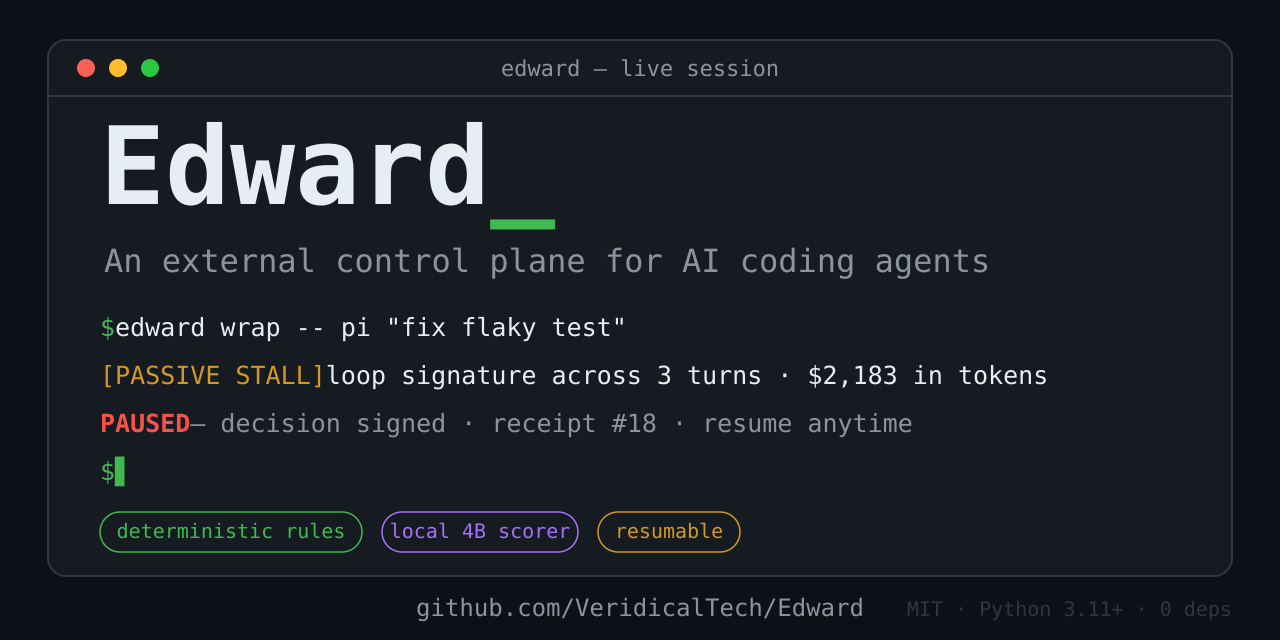
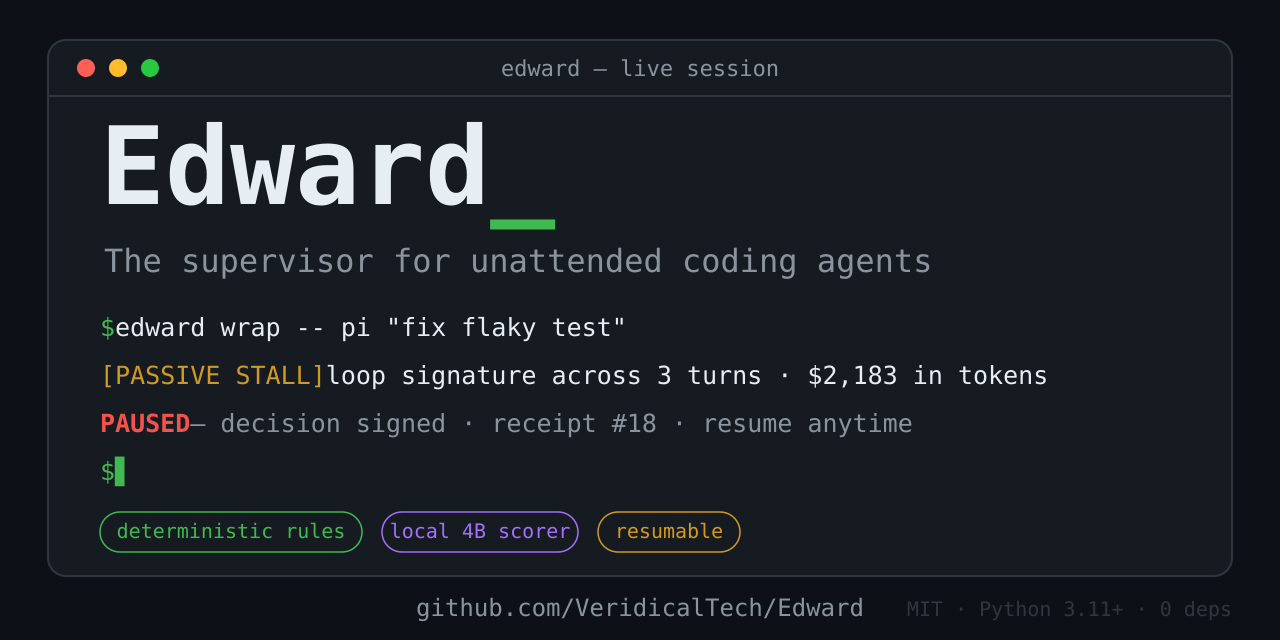
positioning: beachhead at unattended runs — scenario-first hero ('the supervisor for agents that run when nobody's watching'), GitHub Action (composite, receipt verification in-pipeline), social card tagline synced

Changed region(s): [[0.0625, 0.375, 0.7812, 0.4375]]

diff --git a/README.md b/README.md
@@ -2,7 +2,9 @@
 
 # Edward
 
-**An external control plane for AI coding agents — deterministic guardrails, a local semantic scorer, and interventions you can resume.**
+**The supervisor for coding agents that run when nobody's watching.**
+
+CI jobs, overnight runs, scheduled batches — unattended agents fail quietly: the same broken test retried 40 times, `rm -rf` on the wrong directory, budget burned at 3am with no one to hit stop. Edward watches the event stream, builds a picture of what the agent is actually doing across turns, and intervenes when the picture stops looking right — **PAUSE (resumable), CANCEL, or BLOCK — with a signed receipt for every decision.**
 
 [![CI](https://img.shields.io/github/actions/workflow/status/VeridicalTech/Edward/ci.yml?branch=main&label=CI&style=flat-square&logo=github)](https://github.com/VeridicalTech/Edward/actions/workflows/ci.yml)
 [![PyPI](https://img.shields.io/pypi/v/edward-guard?style=flat-square&color=blue)](https://pypi.org/project/edward-guard/)
@@ -166,6 +168,25 @@ measured numbers and reproduction commands).
 <div align="center">
 <img src="docs/gif/resume_verify.gif" alt="resume from audit + offline receipt verification" width="780">
 </div>
+
+## Unattended runs & CI
+
+Edward is built for agents nobody is watching. In a workflow:
+
+```yaml
+- uses: VeridicalTech/Edward@main
+  with:
+    command: 'pi "fix the flaky test"'
+    policy: balanced          # or a path to your policy TOML
+    max-seconds: 1800
+    # scorer-url: http://gpu-box.lan:8000   # optional local 4B judge
+```
+
+The command runs under supervision. If Edward intervenes — loop, stall,
+budget bleed, dangerous command — **the job fails with a `::warning` and the
+Ed25519 receipt trail is uploaded as an artifact**, so the 3am failure comes
+with evidence instead of a silent $12 bill. `edward verify` runs in-pipeline:
+tampered audit logs fail the build.
 
 ## Why zero dependencies?
 
